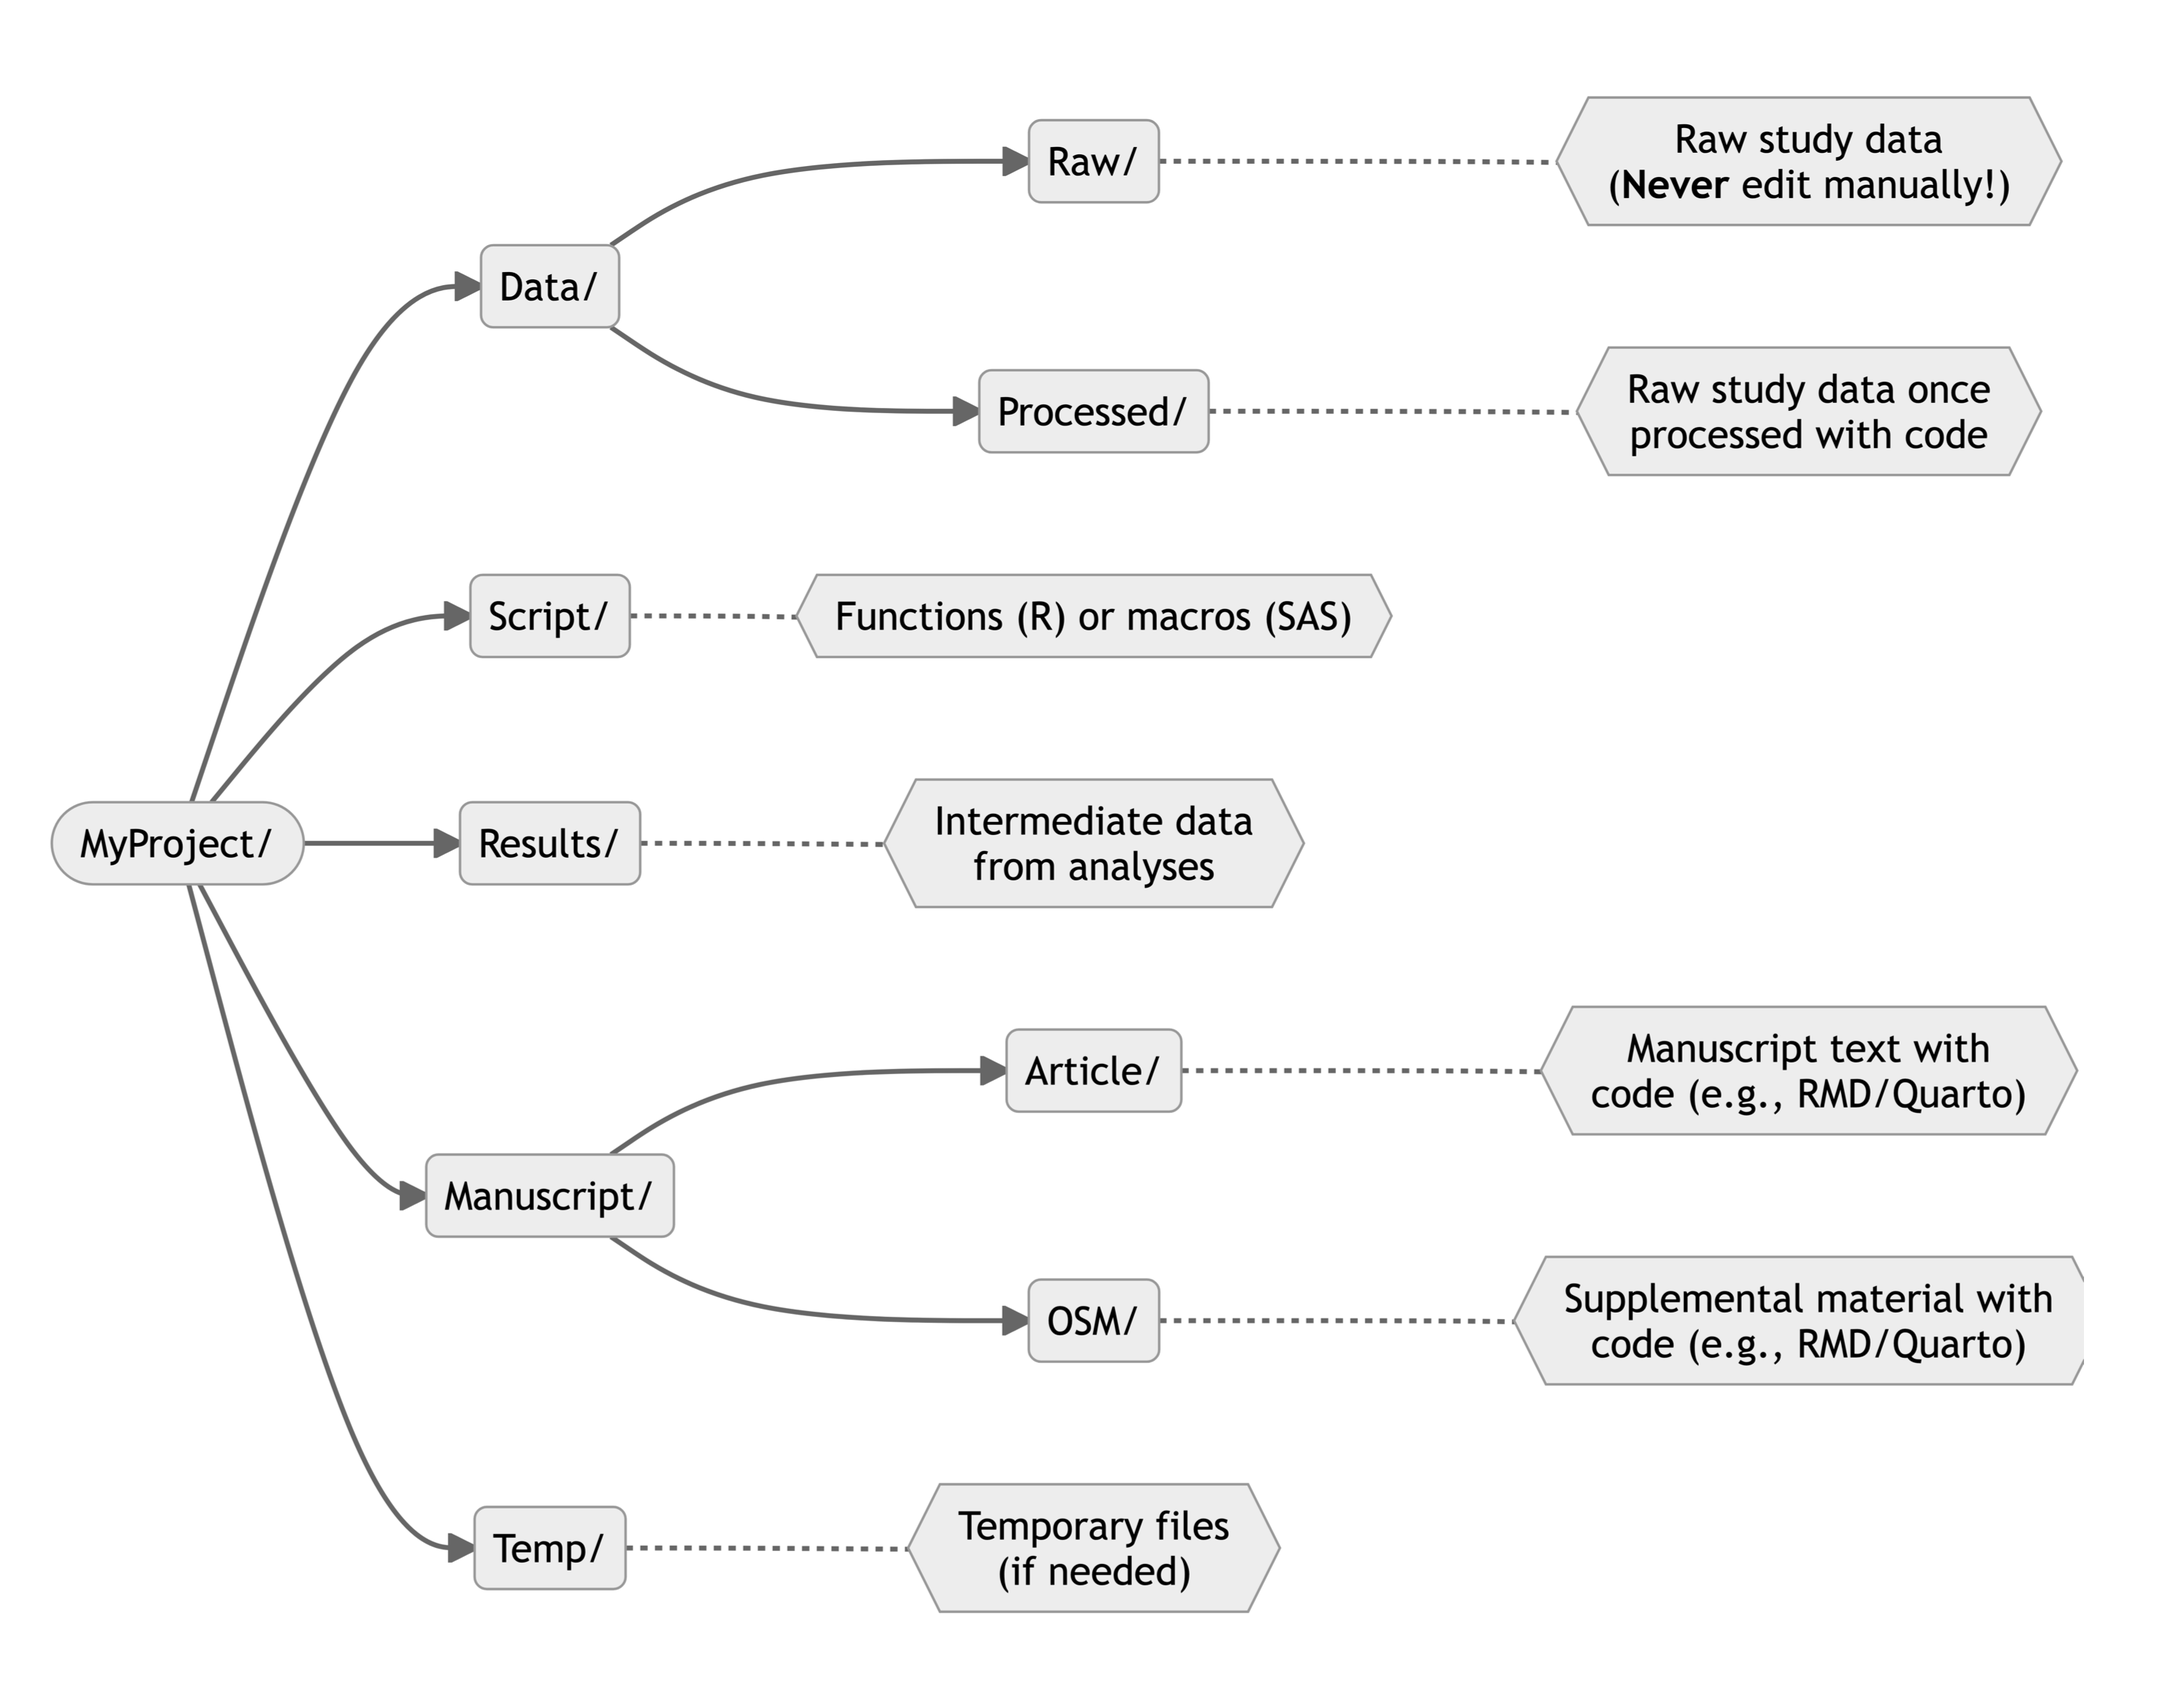
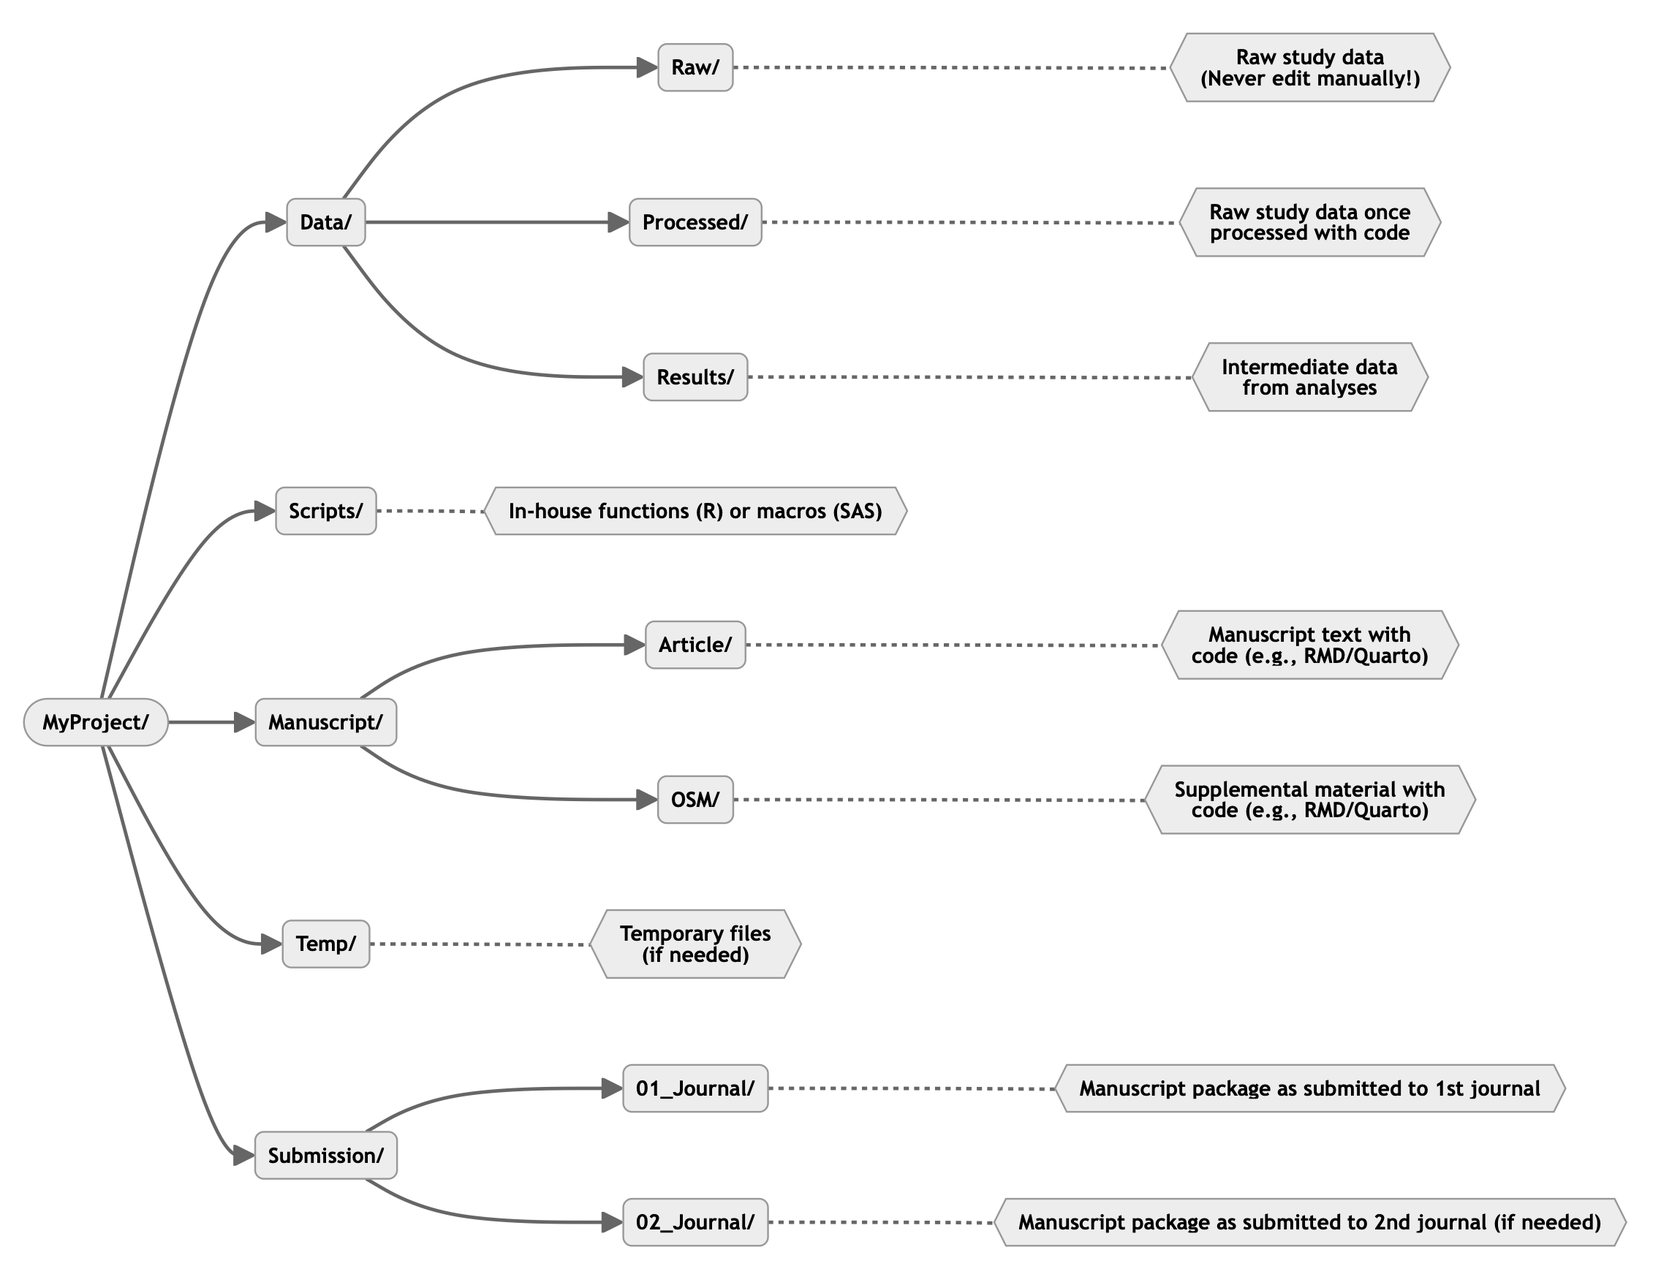
blog-5-update-mermaid
-removed code which does not work for some reasons
+replaced picture with new graph

diff --git a/_posts/2023-08-31-blog-post-5.md b/_posts/2023-08-31-blog-post-5.md
@@ -167,60 +167,8 @@ The figure below shows an example of generic directory tree for a
 research project. You can always modify folder name or set up according
 to your preferences, but I found this structure to work well.
 
-<pre class="mermaid">
-flowchart LR
-    P(["MyProject/"])
-    P-->A
-    P-->B
-    P-->D
-    P-->E
-    P-->F
-    A("Data/")
-        A1("Raw/")
-        A2("Processed/")
-        A3("Results/")
-        A-->A1
-        A-->A2
-        A-->A3
-        AT1{{"Raw study data<br>(<b>Never</b> edit manually!)"}}
-        A1-.-AT1
-        AT2{{"Raw study data once<br>processed with code"}}
-        A2-.-AT2
-        AT3{{"Intermediate data<br>from analyses"}}
-        A3-.-AT3
-    B("Scripts/")
-        BT1{{"In-house functions (R) or macros (SAS)"}}
-        B-.-BT1
-    D("Manuscript/")
-        D1("Article/")
-        D2("OSM/")
-        D-->D1
-        D-->D2
-        DT1{{"Manuscript text with<br>code (e.g., RMD/Quarto)"}}
-        D1-.-DT1
-        DT2{{"Supplemental material with<br>code (e.g., RMD/Quarto)"}}
-        D2-.-DT2
-    E("Temp/")
-        ET1{{"Temporary files<br>(if needed)"}}
-        E-.-ET1
-    F("Submission/")
-        F1("01_Journal/")
-        F2("02_Journal/")
-        F-->F1
-        F-->F2
-        FT1{{"Manuscript package as submitted to 1st journal"}}
-        F1-.-FT1
-        FT2{{"Manuscript package as submitted to 2nd journal (if needed)"}}
-        F2-.-FT2
-</pre>
-
-<script type="module">
-	import mermaid from 'https://cdn.jsdelivr.net/npm/mermaid@10/dist/mermaid.esm.min.mjs';
-	mermaid.initialize({
-		startOnLoad: true,
-		theme: 'neutral'
-	});
-</script>
+<img src="/images/2023-08-31-blog-post-5_files/directory.png"
+ style="width:85.0%" data-fig-align="center" />
 
 ## Other Directory Tree Example
 
